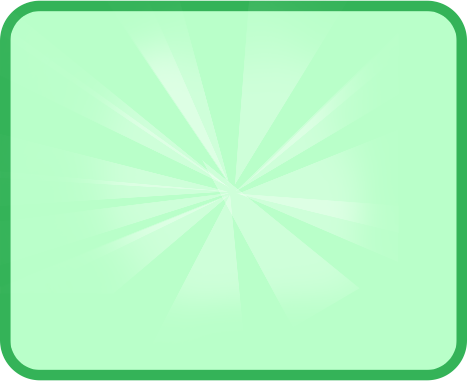
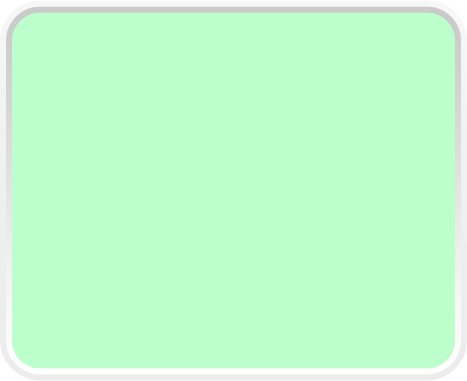
feat-更换抽奖背景图

diff --git a/lib/pages/trip/top_level_merger.dart b/lib/pages/trip/top_level_merger.dart
@@ -4,7 +4,6 @@ import 'package:flutter/material.dart';
 import 'package:flutter_screenutil/flutter_screenutil.dart';
 import 'package:luckyfruit/theme/index.dart';
 import 'package:luckyfruit/theme/public/primary_btn.dart';
-import 'package:luckyfruit/widgets/layer.dart';
 
 class TopLevelMergeWidget extends StatefulWidget {
   final Function onReceivedResultFun;
@@ -86,32 +85,33 @@ class TopLevelMergeWidgetState extends State<TopLevelMergeWidget>
     List wrap = List(10).map((val) {
       print("gridWrapperView index= $index");
       return Container(
+          padding: EdgeInsets.all(ScreenUtil().setWidth(10)),
           decoration: BoxDecoration(
-            border: index++ == inOrder[runCount % inOrder.length]
-                ? Border.all(
-                    color: const Color.fromRGBO(255, 172, 30, 1),
-                    width: 2,
-                    style: BorderStyle.solid,
+            // color: Colors.red,
+            image: index++ == inOrder[runCount % inOrder.length]
+                ? DecorationImage(
+                    alignment: Alignment.center,
+                    image: AssetImage(
+                        "assets/image/top_level_merge_item_selected.png"),
+                    fit: BoxFit.cover,
                   )
-                : Border.all(
-                    color: Colors.transparent,
-                    width: 2,
-                    style: BorderStyle.solid,
-                  ),
-            borderRadius:
-                BorderRadius.all(Radius.circular(ScreenUtil().setWidth(20))),
+                : null,
           ),
-          child: Image.asset(
-            "assets/image/dividend_tree.png",
-            width: ScreenUtil().setWidth(130),
-            height: ScreenUtil().setWidth(142),
-          ));
+          child: Container(
+              // color: Colors.green,
+              padding: EdgeInsets.all(ScreenUtil().setWidth(10)),
+              child: Image.asset(
+                "assets/image/dividend_tree.png",
+                width: ScreenUtil().setWidth(130),
+                height: ScreenUtil().setWidth(142),
+              )));
     }).toList();
 
     wrap.insert(
         5,
         Container(
-            width: ScreenUtil().setWidth(290),
+            // colofr: Colors.yellow,
+            width: ScreenUtil().setWidth(365),
             height: ScreenUtil().setWidth(142),
             alignment: Alignment.center,
             child: Center(

diff --git a/lib/widgets/layer.dart b/lib/widgets/layer.dart
@@ -646,6 +646,7 @@ class Layer {
   static showTopLevelMergeWindow() {
     Modal(
         onCancel: () {},
+        width: 940,
         horizontalPadding: ScreenUtil().setWidth(70),
         childrenBuilder: (modal) => <Widget>[
               TopLevelMergeWidget(onReceivedResultFun: () {
